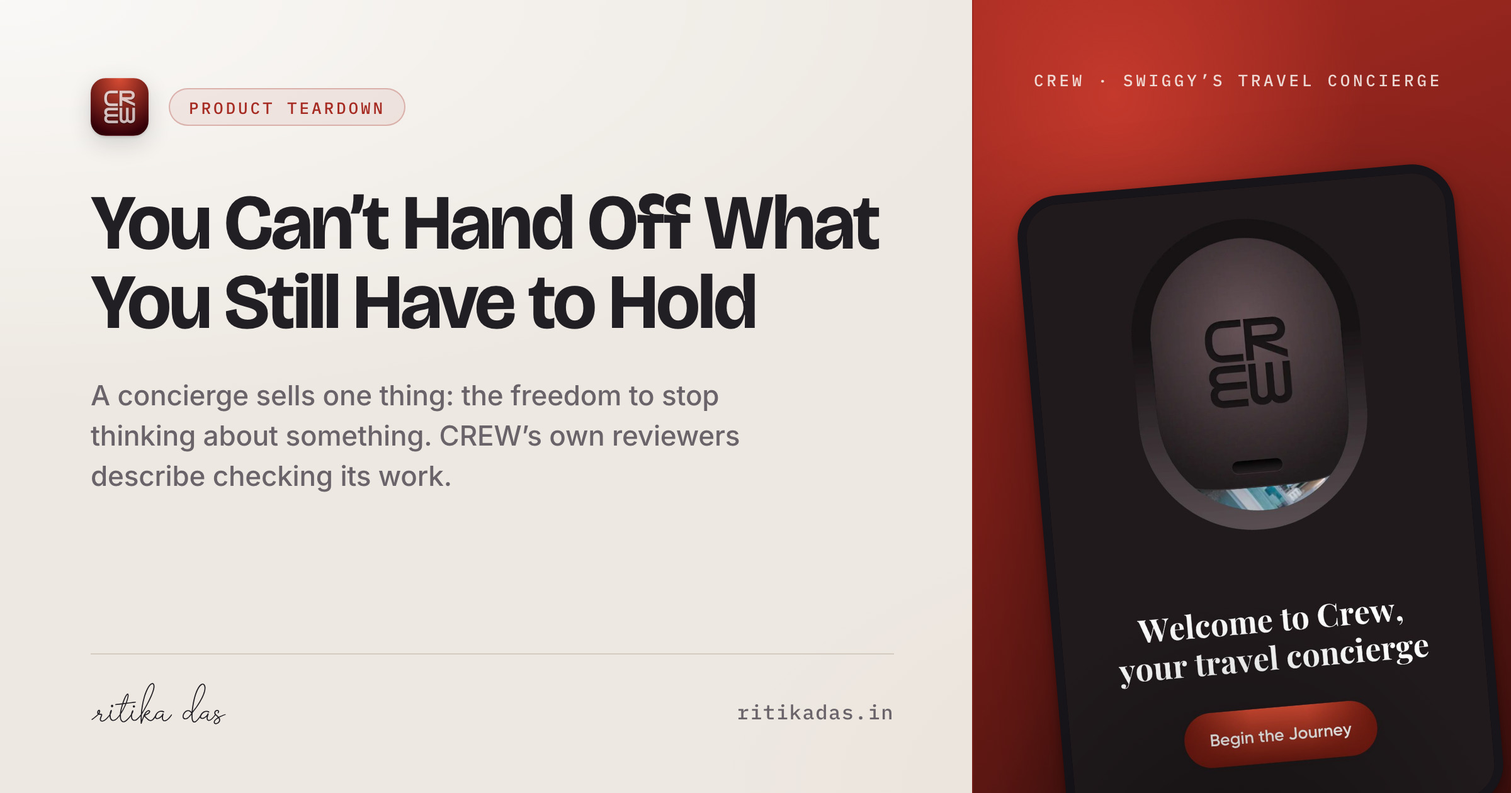
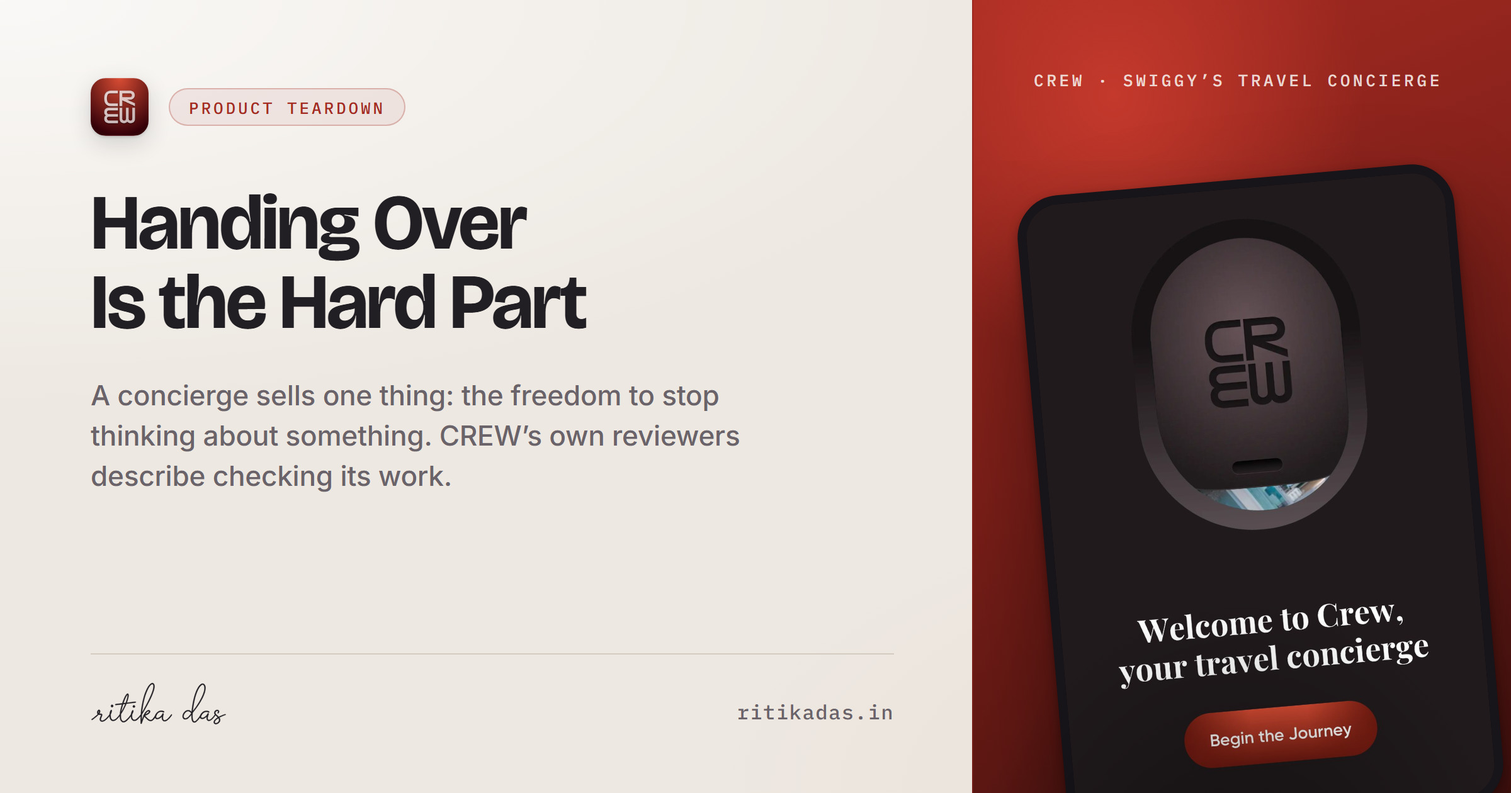
Lead with the AI, retitle the CREW study, unbox the toolbox
The cards were framing the model as the junior partner in its own product.
Savio opened with "Code works out every number", Amazon with "AI reads the
messy text; code works out every number". Both true, and both the wrong
first impression for work where the model is the point. The nuanced split
stays in the decisions sections, where it reads as engineering judgment
rather than hedging — but the cards now say what the products are.

  Savio    An AI companion for the one question budget apps never answer:
           can I afford this, right now?
           0 hallucinated figures — every number the AI writes is checked
           against your data first
  Amazon   An agentic pipeline that reads a week of customer complaints and
           hands a PM a ranked, cited backlog.
           13-step agentic AI pipeline — raw reviews in, a ranked and cited
           backlog out

"6 refused" and "3 of 13 steps use AI" are gone. The first described my own
paperwork; the second advertised how little of the pipeline was AI.

A number I nearly shipped and did not: "5-layer context stack" and
"two-pass AI" both come from a slide deck, not this repo. chat-respond
makes one model call and there is no Layer N anywhere in prompt_builder.ts.

CREW

Retitled from "You Can't Hand Off What You Still Have to Hold" to "Handing
Over Is the Hard Part". The old one was a paradox that only resolved after
reading the piece, and it read as a verdict on a company rather than an
[…]

diff --git a/index.html b/index.html
@@ -150,7 +150,7 @@
       <span class="eyebrow">Product Manager · Builder</span>
       <span class="eyebrow muted">— Bengaluru, India</span>
     </div>
-    <h1 class="hero hero-enter">I decide what&rsquo;s worth building, then build it. Research, experiments, design, plain judgment, and yes, AI.</h1>
+    <h1 class="hero hero-enter">I decide what&rsquo;s worth building, then build it. Through research, experiments, design, plain judgment, and yes, AI.</h1>
     <p class="hero-sub hero-enter">Three products, built and shipped solo, and the calls behind each. Plus case studies across social, luxury, and platforms.</p>
     <div class="hero-actions hero-enter">
       <a href="#work" class="btn btn-primary">See the work <span class="arr">↗</span></a>
@@ -255,12 +255,12 @@
         </figure>
         <div class="card-tags"><span class="tag live">&#9679; Deployed</span><span class="tag">Consumer AI</span></div>
         <h3><a class="card-link" href="work/savio/"><span class="nb">Savio <span class="arr">&#8599;</span></span></a></h3>
-        <p class="card-dek">Code works out every number. The AI writes the sentence you actually read. Anything it can&rsquo;t trace back to your real data, it won&rsquo;t show you.</p>
+        <p class="card-dek">An AI companion for the one question budget apps never answer: can I afford this, right now? It reasons over your real income, commitments and goals.</p>
         <div class="card-foot">
           <div class="card-metric-badge">
-            <span class="card-metric-num">6</span>
-            <span class="card-metric-unit">refused</span>
-            <span class="card-metric-lbl">features I turned down, and the reasoning for each</span>
+            <span class="card-metric-num">0</span>
+            <span class="card-metric-unit">hallucinated figures</span>
+            <span class="card-metric-lbl">every number the AI writes is checked against your data first</span>
           </div>
         </div>
       </div>
@@ -271,12 +271,12 @@
         </figure>
         <div class="card-tags"><span class="tag live">&#9679; Deployed</span><span class="tag">Multi-agent pipeline</span></div>
         <h3><a class="card-link" href="work/amazon/">Amazon Discovery <span class="nb">Intelligence <span class="arr">&#8599;</span></span></a></h3>
-        <p class="card-dek">A week of customer complaints becomes a ranked list a PM can act on. AI reads the messy text; code works out every number.</p>
+        <p class="card-dek">An agentic pipeline that reads a week of customer complaints and hands a PM a ranked, cited backlog. Thirteen steps, running on a schedule.</p>
         <div class="card-foot">
           <div class="card-metric-badge">
-            <span class="card-metric-num">3 of 13</span>
-            <span class="card-metric-unit">steps use AI</span>
-            <span class="card-metric-lbl">every number is computed in code</span>
+            <span class="card-metric-num">13-step</span>
+            <span class="card-metric-unit">agentic AI pipeline</span>
+            <span class="card-metric-lbl">raw reviews in, a ranked and cited backlog out</span>
           </div>
         </div>
       </div>
@@ -311,13 +311,13 @@
            sits beside its siblings in a grid instead of stacked below them. -->
       <div class="card written work-card reveal" data-project="crew">
         <figure class="card-art">
-          <img src="assets/og/crew-card.jpg?v=4" alt="" width="1000" height="1000" loading="lazy" decoding="async" />
+          <img src="assets/og/crew-card.jpg?v=5" alt="" width="1000" height="1000" loading="lazy" decoding="async" />
         </figure>
         <div class="card-tags">
           <span class="tag solid" style="color:var(--crew-brand);border-color:var(--crew-line);background:var(--crew-tint);font-weight:600">&#9679; CREW Study</span>
         </div>
-        <h3><a class="card-link" href="writing/crew/">You can&rsquo;t hand off what you still have to <span class="nb">hold <span class="arr">&#8599;</span></span></a></h3>
-        <p class="card-dek">A concierge sells one thing: the freedom to stop thinking about it. CREW&rsquo;s own reviewers verify its confirmations, chase its replies, and research the trip anyway.</p>
+        <h3><a class="card-link" href="writing/crew/">Handing over is the hard <span class="nb">part <span class="arr">&#8599;</span></span></a></h3>
+        <p class="card-dek">A concierge sells one thing: the freedom to stop thinking about it. CREW&rsquo;s own reviewers say they check its bookings, chase its replies, and plan the trip themselves anyway.</p>
         <div class="card-foot">
           <span class="card-facts">Luxury travel &middot; Trust &amp; retention &middot; 13 min read</span>
         </div>
@@ -351,33 +351,31 @@
         </div>
       </div>
     </div>
-    <div class="toolbox-grid">
+  </div>
+</section>
+
+
+<!-- Moved out of Product Thinking, where it sat under the three studies and read
+     as a footnote to them rather than a statement about the work as a whole.
+     Restyled too: bordered rounded rectangles read as buttons, and these do not
+     click. Plain text separated by middots reads as what it is, a list. -->
+<section id="toolbox">
+  <div class="wrap">
+    <div class="sec-head reveal">
+      <div><h2 class="concept">What I work with</h2><div class="sub">The methods behind the work above.</div></div>
+    </div>
+    <div class="toolbox-grid reveal">
       <div class="toolbox-card">
         <div class="toolbox-title">Product Strategy & Research</div>
-        <div class="toolbox-pills">
-          <span class="tool-pill">0-to-1 Discovery</span>
-          <span class="tool-pill">User Interviews</span>
-          <span class="tool-pill">RICE Prioritization</span>
-          <span class="tool-pill">Competitor Benchmarking</span>
-        </div>
+        <p class="tool-list">0-to-1 Discovery <span class="tool-sep">&middot;</span> User Interviews <span class="tool-sep">&middot;</span> RICE Prioritization <span class="tool-sep">&middot;</span> Competitor Benchmarking</p>
       </div>
       <div class="toolbox-card">
         <div class="toolbox-title">Growth & Platform Economics</div>
-        <div class="toolbox-pills">
-          <span class="tool-pill">Activation Funnels</span>
-          <span class="tool-pill">Retention Cohorts</span>
-          <span class="tool-pill">Multi-Sided Markets</span>
-          <span class="tool-pill">Trust Gating</span>
-        </div>
+        <p class="tool-list">Activation Funnels <span class="tool-sep">&middot;</span> Retention Cohorts <span class="tool-sep">&middot;</span> Multi-Sided Markets <span class="tool-sep">&middot;</span> Trust Gating</p>
       </div>
       <div class="toolbox-card">
         <div class="toolbox-title">AI & Technical Prototyping</div>
-        <div class="toolbox-pills">
-          <span class="tool-pill">LLM Integration & Orchestration</span>
-          <span class="tool-pill">Rapid Full-Stack Prototyping</span>
-          <span class="tool-pill">Deterministic AI & Grounding</span>
-          <span class="tool-pill">Browser Extension Surfaces</span>
-        </div>
+        <p class="tool-list">LLM Integration & Orchestration <span class="tool-sep">&middot;</span> Rapid Full-Stack Prototyping <span class="tool-sep">&middot;</span> Deterministic AI & Grounding <span class="tool-sep">&middot;</span> Browser Extension Surfaces</p>
       </div>
     </div>
   </div>

diff --git a/writing/crew/index.html b/writing/crew/index.html
@@ -3,7 +3,7 @@
 <head>
 <meta charset="utf-8">
 <meta name="viewport" content="width=device-width,initial-scale=1">
-<title>You Can&#x27;t Hand Off What You Still Have to Hold &mdash; Ritika Das</title>
+<title>Handing Over Is the Hard Part &mdash; Ritika Das</title>
 <meta name="description" content="A product case study on CREW, Swiggy&#x27;s travel concierge.">
 <link rel="canonical" href="https://ritikadas.in/writing/crew/">
 <!-- Link preview. og:image must be an absolute URL — every scraper fetches it
@@ -11,15 +11,15 @@
 <meta property="og:type" content="article">
 <meta property="og:site_name" content="Ritika Das">
 <meta property="og:url" content="https://ritikadas.in/writing/crew/">
-<meta property="og:title" content="You Can&#x27;t Hand Off What You Still Have to Hold">
+<meta property="og:title" content="Handing Over Is the Hard Part">
 <meta property="og:description" content="A concierge sells one thing: the freedom to stop thinking about something. CREW&#x27;s own reviewers describe checking its work.">
 <meta property="og:image" content="https://ritikadas.in/assets/og/crew-og.jpg">
 <meta property="og:image:type" content="image/jpeg">
 <meta property="og:image:width" content="2400">
 <meta property="og:image:height" content="1260">
-<meta property="og:image:alt" content="You Can&#x27;t Hand Off What You Still Have to Hold &mdash; a product teardown of CREW, Swiggy&#x27;s travel concierge, on ritikadas.in.">
+<meta property="og:image:alt" content="Handing Over Is the Hard Part &mdash; a product teardown of CREW, Swiggy&#x27;s travel concierge, on ritikadas.in.">
 <meta name="twitter:card" content="summary_large_image">
-<meta name="twitter:title" content="You Can&#x27;t Hand Off What You Still Have to Hold">
+<meta name="twitter:title" content="Handing Over Is the Hard Part">
 <meta name="twitter:description" content="A concierge sells one thing: the freedom to stop thinking about something. CREW&#x27;s own reviewers describe checking its work.">
 <meta name="twitter:image" content="https://ritikadas.in/assets/og/crew-og.jpg">
 <meta name="theme-color" content="#EDE8E1" media="(prefers-color-scheme: light)">
@@ -40,7 +40,7 @@
 {
   "@context": "https://schema.org",
   "@type": "BlogPosting",
-  "headline": "You Can't Hand Off What You Still Have to Hold",
+  "headline": "Handing Over Is the Hard Part",
   "description": "A product case study on CREW, Swiggy's travel concierge.",
   "url": "https://ritikadas.in/writing/crew/",
   "author": {
@@ -99,7 +99,7 @@
   <header class="art-head">
     <div class="art-wrap">
       <a href="../" class="art-back">&larr; All writing</a>
-      <h1 class="art-title">You can't hand off what you still have to hold</h1>
+      <h1 class="art-title">Handing over is the hard part</h1>
       <p class="art-sub">A product case study on CREW, Swiggy's travel concierge.</p>
       <figure class="fig-phone art-hero">
         <!-- ?v= is a cache-buster. The filename stays stable across recrops, so
@@ -117,7 +117,7 @@
            the card, which was answering its own question and giving nobody a reason
            to click through. -->
       <div class="art-summary">
-        <div class="as-cell"><div class="as-k">Problem</div><div class="as-v">A concierge sells one thing: the freedom to stop thinking about something. CREW&rsquo;s own reviewers describe verifying its confirmations, chasing its replies, and researching the trip themselves anyway. Every one of those is the work handed back.</div></div>
+        <div class="as-cell"><div class="as-k">Problem</div><div class="as-v">A concierge sells one thing: the freedom to stop thinking about something. CREW&rsquo;s own reviewers say they check its bookings, chase its replies, and plan the trip themselves anyway. Every one of those is the work handed back.</div></div>
         <div class="as-cell"><div class="as-k">Decision</div><div class="as-v">Stop leading with the discount. A price invites the customer to check your work, which is the exact supervising behaviour a concierge exists to remove. Lead on reliability instead: one named owner per trip, a published response time, and the word &ldquo;confirmed&rdquo; used only when something is.</div></div>
         <div class="as-cell"><div class="as-k">Evidence</div><div class="as-v">Public App Store and Play Store reviews from March to July, plus my own use of the app. They split into fives and ones with almost nothing between: the service that bought, wrapped and delivered a forgotten gift is the same one that took payment for an order it never placed.</div></div>
         <div class="as-cell"><div class="as-k">Outcome</div><div class="as-v">One measure that restates the whole argument: the share of trips where the customer never had to hold on. And the test that would disprove me. If the members who lean on the concierge don&rsquo;t rebook more than the ones who just book, the concierge was never the moat.</div></div>
@@ -183,7 +183,7 @@
   <figcaption>Four bookings confirmed and then not: VIP tickets that were not, upgraded seats that were not, and an order that was never placed.</figcaption>
 </figure>
 <p>On the Play Store, a June reviewer says the recommendations read like generic material pulled off the internet instead of checked advice, so he ends up researching everything again himself, no better, he notes, than a chatbot. That is the judgment handed back. Another describes an airport transfer where the driver improvised a cheaper route to save a little money, nearly causing a missed flight; when he complained, he got an apology and nothing else. That is the whole point of a concierge, handled and on the ground, handed back at the worst possible moment.</p>
-<p>None of these people are angry about money in the way it first appears. They are angry because they let go and the load came back. For a customer who is buying the letting-go itself, that is not a service slip. It is the product failing at the only thing it was for.</p>
+<p>None of these people are angry about money in the way it first appears. They are angry because they let go and the load came back. For a customer who is buying the letting-go itself, that is not a service slip. That is the promise the whole product rests on.</p>
 <h2>Why one hand-back is fatal here</h2>
 <p>An obvious objection: this is an early, invite-only product, and early products are inconsistent. True. Variance at this stage is normal.</p>
 <p>But normal variance is not survivable for <em>this</em> product with <em>this</em> customer. A food-delivery app can be a coin flip on any given order and keep you, because the stake is a cold meal and the next order resets the relationship. A concierge cannot, because the thing being sold is trust, and trust is not an average. One confident confirmation that turns out to be wrong doesn't cost you that one booking. It retroactively poisons every other confirmation, because now you have to wonder about all of them. The affluent customer's response to a single betrayal is not to complain; it is to quietly stop delegating and go back to the travel agent or the assistant they already had.</p>

diff --git a/styles.css b/styles.css
@@ -848,11 +848,23 @@ code{font-family:var(--mono);font-size:.86em;background:var(--accent-wash);borde
 
 /* PM TOOLBOX GRID */
 .toolbox-section{margin-top:48px;background:var(--surface-2);border:1px solid var(--hairline);border-radius:var(--r);padding:28px 32px}
-.toolbox-grid{display:grid;grid-template-columns:repeat(3,1fr);gap:24px;margin-top:16px}
-.toolbox-card{background:var(--surface);border:1px solid var(--hairline);border-radius:var(--r-sm);padding:18px}
-.toolbox-title{font-family:var(--mono);font-size:11px;text-transform:uppercase;letter-spacing:.1em;color:var(--accent);margin-bottom:10px;font-weight:600}
-.toolbox-pills{display:flex;flex-wrap:wrap;gap:6px}
-.tool-pill{font-family:var(--mono);font-size:10.5px;padding:4px 9px;border-radius:6px;background:var(--paper-alt);color:var(--ink-2);border:1px solid var(--hairline-strong)}
+/* WHAT I WORK WITH
+   Was a grid of bordered, rounded, padded chips inside Product Thinking. Two
+   problems: it read as a footnote to the three studies rather than a statement
+   about the work as a whole, and chips shaped like that are buttons — on a site
+   where everything else that looks pressable is pressable, twelve dead controls
+   is the one place the styling lies. Now plain text in three labelled columns,
+   separated by hairlines rather than boxes. */
+.toolbox-grid{display:grid;grid-template-columns:repeat(3,1fr);gap:28px 40px;margin-top:26px}
+.toolbox-card{padding:16px 0 0;border-top:1px solid var(--hairline)}
+.toolbox-title{font-family:var(--mono);font-size:10.5px;text-transform:uppercase;letter-spacing:.1em;color:var(--pdeo-label);margin-bottom:10px;font-weight:700}
+/* 15px, not the 10.5px the chips used. They were small because a chip has to be;
+   as text it can sit at a readable size. */
+.tool-list{margin:0;font-size:15px;line-height:1.7;color:var(--ink-2)}
+/* --muted, not --faint-deco. These middots sit inside a line of text rather than
+   standing alone as a graphic, so the 4.5 text bar is the one that applies. */
+.tool-sep{color:var(--muted);padding:0 2px}
+@media(max-width:640px){.toolbox-grid{gap:22px 0}}
 
 /* experience */
 /* Rail + body. The measure that keeps the prose readable is now enforced by the

diff --git a/work/savio/index.html b/work/savio/index.html
@@ -76,7 +76,7 @@
       <a href="../../#work" class="art-back">&larr; All work</a>
       <div class="card-tags"><span class="tag live">&#9679; Deployed</span><span class="tag">Consumer AI</span></div>
       <h1 class="art-title">Savio</h1>
-      <p class="art-sub">Code works out every number. The AI writes the sentence you actually read. Nothing reaches you that can't be traced back to your own data.</p>
+      <p class="art-sub">An AI companion for the one question budget apps never answer: can I afford this, right now? It reasons over your real income, commitments and goals.</p>
       <div class="art-meta">
         <div class="am-cell"><div class="am-k">Role</div><div class="am-v">Product and build, solo</div></div>
         <div class="am-cell"><div class="am-k">Platform</div><div class="am-v">React + Supabase web app</div></div>
@@ -96,9 +96,9 @@
     <div class="card-main-grid">
       <div class="card-details-box">
         <div class="card-metric-badge">
-          <span class="card-metric-num">6</span>
-          <span class="card-metric-unit">refused</span>
-          <span class="card-metric-lbl">features I turned down, and the reasoning for each</span>
+          <span class="card-metric-num">0</span>
+          <span class="card-metric-unit">hallucinated figures</span>
+          <span class="card-metric-lbl">every number the AI writes is checked against your data first</span>
         </div>
         <div class="pdeo">
           <div class="row"><span class="k">Problem</span><span class="v">Money apps tell you where your salary went. None answer the question you actually have. Can I afford this, right now? Will it break something I've already promised? So people guess. Guessing is how a month quietly goes wrong.</span></div>

diff --git a/work/amazon/index.html b/work/amazon/index.html
@@ -76,7 +76,7 @@
       <a href="../../#work" class="art-back">&larr; All work</a>
       <div class="card-tags"><span class="tag live">&#9679; Deployed</span><span class="tag">Multi-agent pipeline</span></div>
       <h1 class="art-title">Amazon Discovery Intelligence</h1>
-      <p class="art-sub">A week of customer complaints becomes a ranked list a PM can act on. AI reads the messy text; code works out every number.</p>
+      <p class="art-sub">An agentic pipeline that reads a week of customer complaints and hands a PM a ranked, cited backlog. Thirteen steps, running on a schedule.</p>
       <div class="art-meta">
         <div class="am-cell"><div class="am-k">Role</div><div class="am-v">Product and build, solo</div></div>
         <div class="am-cell"><div class="am-k">Platform</div><div class="am-v">TypeScript on Cloud Run</div></div>
@@ -96,9 +96,9 @@
     <div class="card-main-grid">
       <div class="card-details-box">
         <div class="card-metric-badge">
-          <span class="card-metric-num">3 of 13</span>
-          <span class="card-metric-unit">steps use AI</span>
-          <span class="card-metric-lbl">every number is computed in code</span>
+          <span class="card-metric-num">13-step</span>
+          <span class="card-metric-unit">agentic AI pipeline</span>
+          <span class="card-metric-lbl">raw reviews in, a ranked and cited backlog out</span>
         </div>
         <div class="pdeo">
           <div class="row"><span class="k">Problem</span><span class="v">A PM cannot read every review, so they skim. Skimming feels fine because you never find out what you missed. The complaint that mattered was in there, and nobody counted it.</span></div>

diff --git a/tools/preview.html b/tools/preview.html
@@ -75,7 +75,7 @@
       <div class="rail"></div>
       <div>
         <div class="site">Ritika Das</div>
-        <div class="t">You Can’t Hand Off What You Still Have to Hold</div>
+        <div class="t">Handing Over Is the Hard Part</div>
         <div class="d">A concierge sells one thing: the freedom to stop thinking about
           something. CREW’s own reviewers describe checking its work.</div>
         <img src="../assets/og/crew-og.jpg" alt="">
@@ -94,7 +94,7 @@
     <div class="wa"><div class="bub">
       <img src="../assets/og/crew-og.jpg" alt="">
       <div class="meta">
-        <div class="t">You Can’t Hand Off What You Still Have to Hold</div>
+        <div class="t">Handing Over Is the Hard Part</div>
         <div class="u">ritikadas.in</div>
       </div>
     </div></div>
@@ -113,7 +113,7 @@
   <div>
     <div class="lbl">crew-card</div>
     <div class="pcard">
-      <div class="txt"><b>You can’t hand off what you still have to hold</b>
+      <div class="txt"><b>Handing over is the hard part</b>
         A concierge sells one thing: the freedom to stop thinking about it. CREW’s own
         reviewers verify its confirmations, chase its replies, and research the trip anyway.</div>
       <div class="slot"><img src="../assets/og/crew-card.jpg" alt=""></div>

diff --git a/writing/index.html b/writing/index.html
@@ -88,7 +88,7 @@
   <li class="wr-item">
     <a class="wr-in" href="crew/">
       <div class="wr-meta"><span class="wr-kicker">Luxury travel</span><span class="wr-date">Product teardown</span></div>
-      <h2 class="wr-title">You can&rsquo;t hand off what you still have to hold</h2>
+      <h2 class="wr-title">Handing over is the hard part</h2>
       <p class="wr-dek">A concierge sells one thing: the freedom to stop thinking about something. CREW &mdash; Swiggy&rsquo;s invite-only travel concierge &mdash; keeps handing it back. And you cannot find out whether you can rely on it until you already have.</p>
     </a>
   </li>

diff --git a/tools/og-card.py b/tools/og-card.py
@@ -35,6 +35,7 @@ webfaces; after that they are cached under tools/.fontcache/.
 import base64
 import io
 import mimetypes
+import os
 import pathlib
 import re
 import subprocess
@@ -46,7 +47,18 @@ from PIL import Image
 ROOT = pathlib.Path(__file__).resolve().parent.parent
 OUT = ROOT / "assets" / "og"
 CACHE = pathlib.Path(__file__).parent / ".fontcache"
-CHROME = "/Applications/Google Chrome.app/Contents/MacOS/Google Chrome"
+# Chrome renders these cards, and it lives somewhere different on every OS. The
+# original hardcoded the macOS path, so the script could not run on Windows at all.
+# First existing path wins; override with CHROME_PATH if yours is somewhere else.
+CHROME_CANDIDATES = [
+    os.environ.get("CHROME_PATH", ""),
+    "/Applications/Google Chrome.app/Contents/MacOS/Google Chrome",           # macOS
+    r"C:\Program Files\Google\Chrome\Application\chrome.exe",              # Windows
+    r"C:\Program Files (x86)\Google\Chrome\Application\chrome.exe",
+    os.path.expandvars(r"%LOCALAPPDATA%\Google\Chrome\Application\chrome.exe"),
+    "/usr/bin/google-chrome", "/usr/bin/chromium", "/usr/bin/chromium-browser",  # Linux
+]
+CHROME = next((p for p in CHROME_CANDIDATES if p and pathlib.Path(p).exists()), "")
 
 FONT_URL = ("https://fonts.googleapis.com/css2"
             "?family=Bricolage+Grotesque:opsz,wght@12..96,400;12..96,600;12..96,700"
@@ -133,7 +145,7 @@ ARTICLES = {
     },
     "crew": {
         "kicker": "Product teardown",
-        "title": "You Can’t Hand Off What You Still Have to Hold",
+        "title": "Handing Over Is the Hard Part",
         "hook": "A concierge sells one thing: the freedom to stop thinking about "
                 "something. CREW’s own reviewers describe checking its work.",
         # No quote: the field is the product plate — mark, device, name — not a
@@ -184,7 +196,7 @@ def fonts_css():
     network or on which fonts happen to be installed locally."""
     cached = CACHE / "fonts-inline.css"
     if cached.exists():
-        return cached.read_text()
+        return cached.read_text(encoding="utf-8")
 
     req = urllib.request.Request(FONT_URL, headers={"User-Agent": UA})
     src = urllib.request.urlopen(req).read().decode()
@@ -201,7 +213,7 @@ def fonts_css():
 
     css = "\n".join(faces)
     CACHE.mkdir(exist_ok=True)
-    cached.write_text(css)
+    cached.write_text(css, encoding="utf-8")
     return css
 
 
@@ -212,13 +224,22 @@ def data_uri(rel):
 
 
 def signature_svg():
-    """The 'Ritika Das' script mark, lifted out of the nav so the card and the site
-    can never drift apart."""
-    html = (ROOT / "index.html").read_text()
-    m = re.search(r'<svg[^>]*class="brand-mark"[^>]*>.*?</svg>', html, re.S)
-    if not m:
-        sys.exit("brand-mark svg not found in index.html")
-    return m.group(0).replace('class="brand-mark"', 'class="sig"')
+    """The 'Ritika Das' script mark, read from the same file the site paints through
+    a CSS mask, so the card and the nav can never drift apart.
+
+    It used to be scraped out of index.html, where the signature was inlined into the
+    nav — about 9KB of <path> repeated in every page. That inline copy is gone; the
+    nav is now a <span> with mask-image pointing here. Scraping index.html stopped
+    working the moment that changed, and nothing failed until this script next ran."""
+    svg = ROOT / "assets" / "brand-signature.svg"
+    if not svg.exists():
+        sys.exit(f"signature not found at {svg}")
+    markup = svg.read_text(encoding="utf-8")
+    # The file is built for a mask, so it is filled flat black. The card paints it
+    # in ink, and .sig sets that colour — so hand the fill back to CSS.
+    markup = markup.replace('fill="#000"', 'fill="currentColor"')
+    markup = markup.replace(' stroke="#000"', ' stroke="currentColor"')
+    return markup.replace("<svg ", '<svg class="sig" ', 1)
 
 
 def field_bg(stops, bloom):
@@ -597,8 +618,10 @@ def main():
             print(f"skipped {slug}: art is on hold (placeholder subject). "
                   f"build anyway with `og-card.py {slug}`")
 
-    if not pathlib.Path(CHROME).exists():
-        sys.exit(f"Google Chrome not found at {CHROME}")
+    if not CHROME:
+        looked = "\n  ".join(p for p in CHROME_CANDIDATES if p)
+        sys.exit("Chrome not found. Set CHROME_PATH to its executable.\n"
+                 f"Looked in:\n  {looked}")
     OUT.mkdir(parents=True, exist_ok=True)
     CACHE.mkdir(exist_ok=True)
 
@@ -607,7 +630,7 @@ def main():
         if slug == "home":
             fn = home
         html = CACHE / f"{slug}-{variant}.html"
-        html.write_text(fn(ARTICLES[slug]))
+        html.write_text(fn(ARTICLES[slug]), encoding="utf-8")
         shot = CACHE / f"{slug}-{variant}.png" if variant in JPEG \
             else OUT / f"{slug}-{variant}.png"
         subprocess.run([
